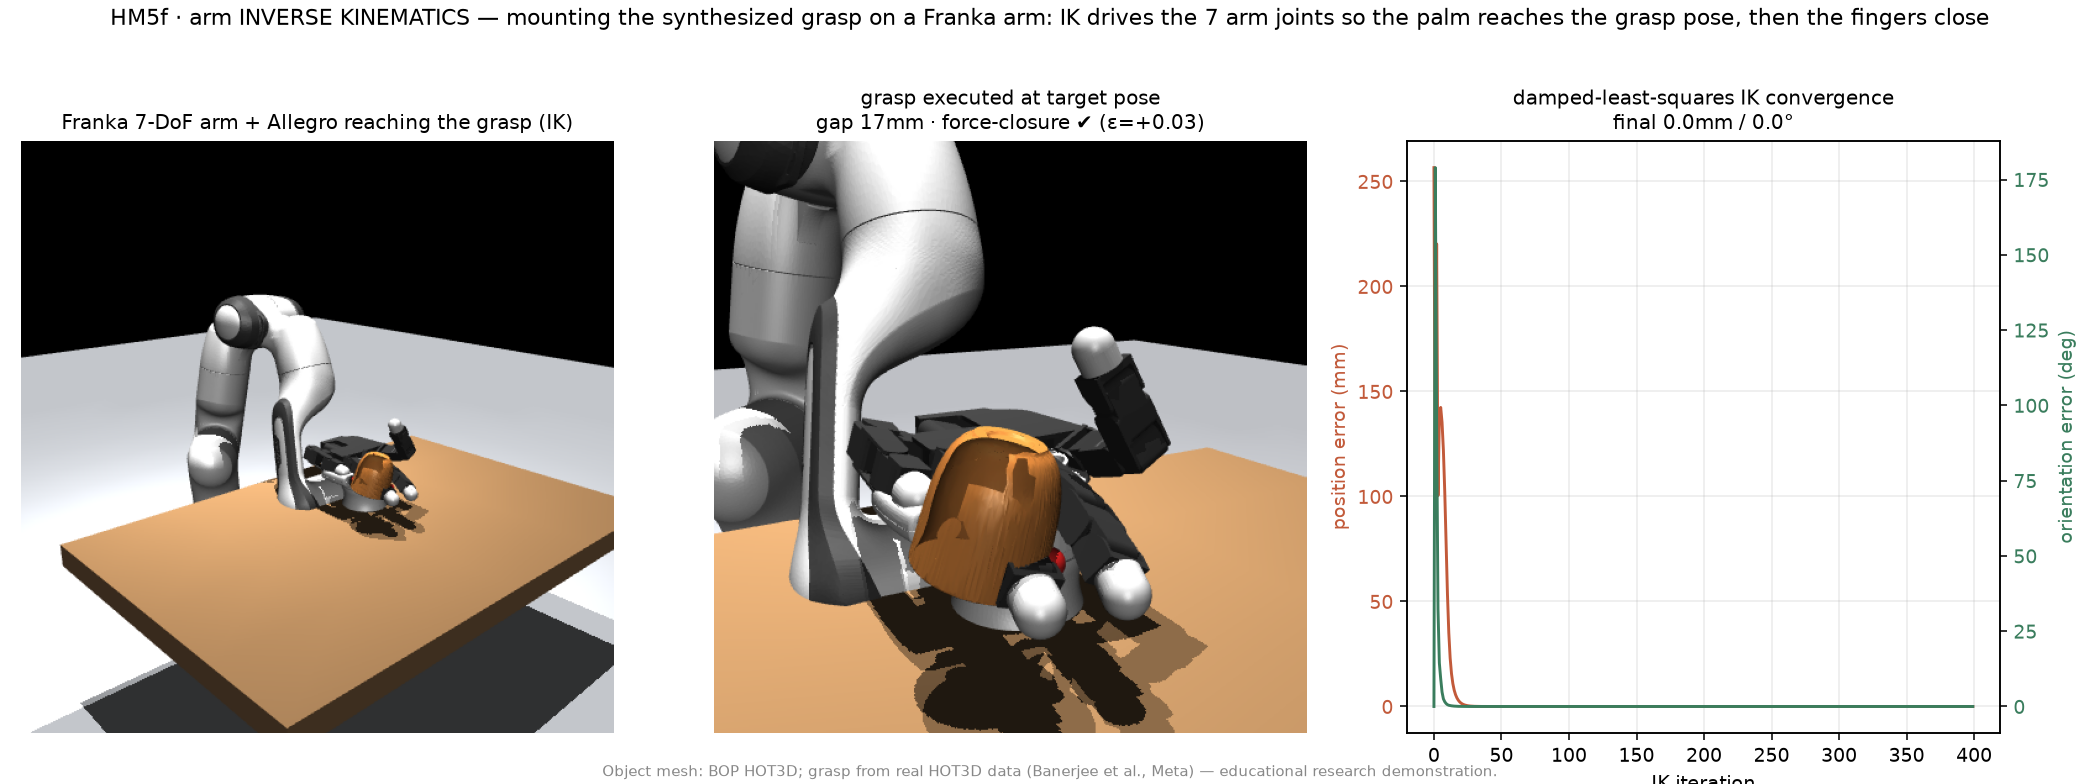
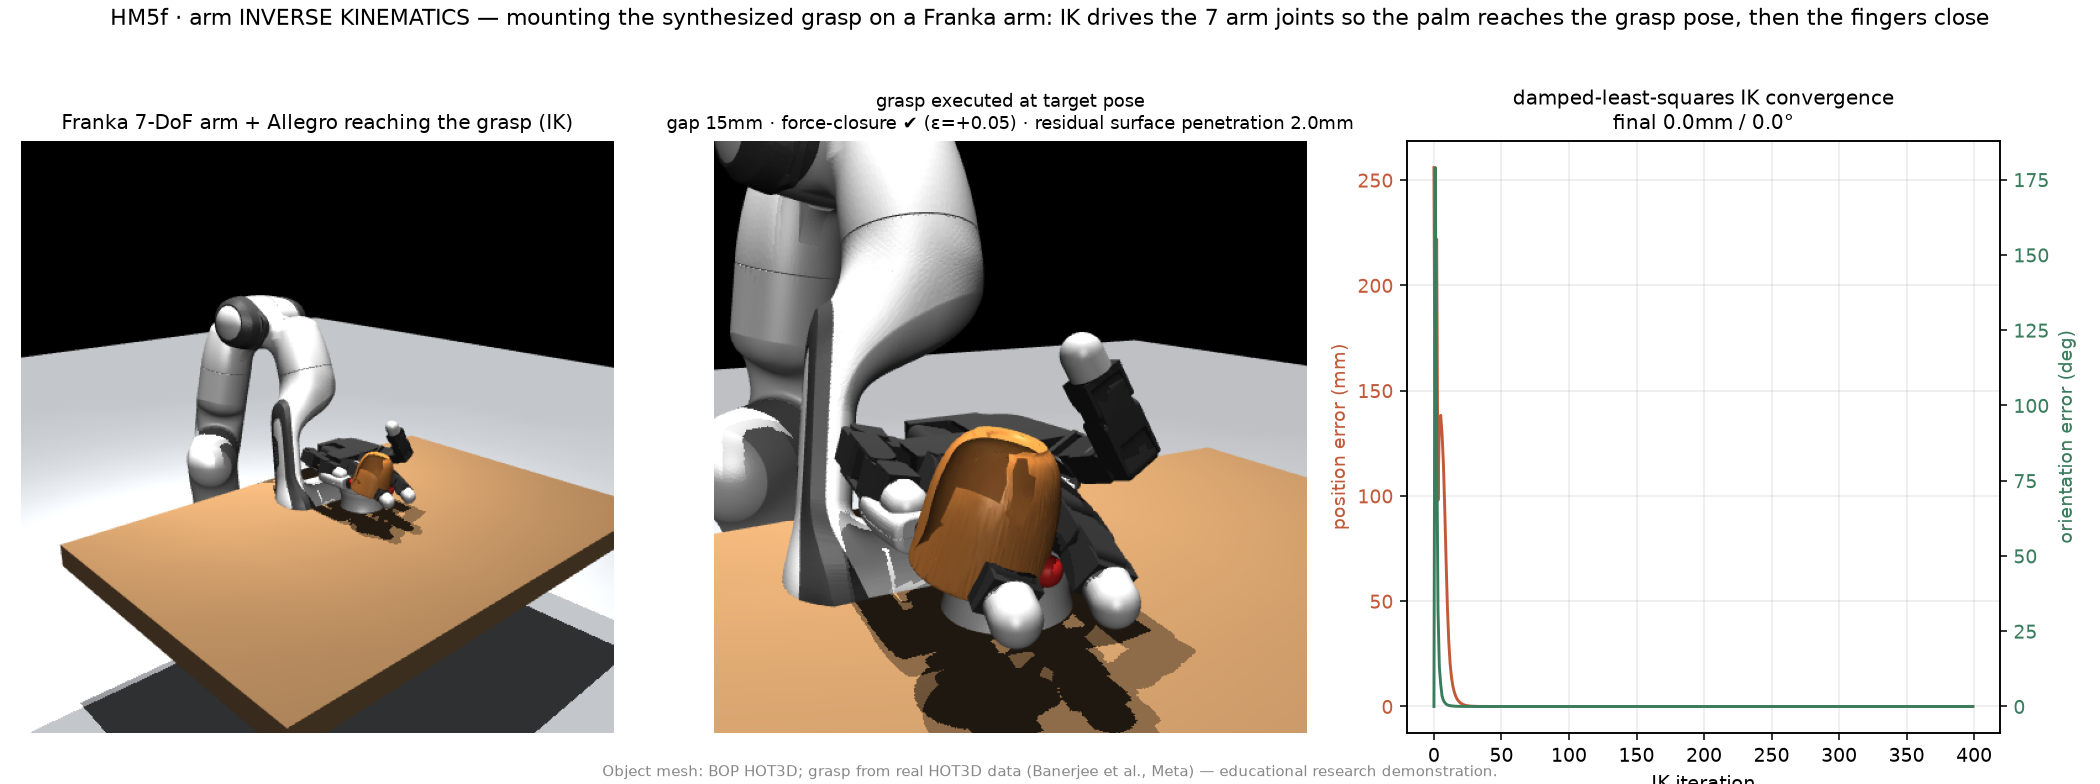
human_pose §11.10-11.12: 2차 정정 — grasp 관통 실제로 ~2mm (E_pen이 13점만 봐서 0mm 과소보고)
사용자가 포폴 그림에서 잔존 관통 지적. dense 손메시 실측=2.0mm(13점 지표 0.0). 병진으로 제거 불가
(감싸는 grasp+FC 붕괴)=cross-morphology 잔차. §11.10에 2차 정정 admonition, 표·§11.11 '0mm'에 dense 단서,
§11.12 그림 제목에 관통 명시. 교훈: 최적화·검증 지표가 실물리량 대표 못하면 해결이 허수.

Claude-Session: https://claude.ai/code/session_01McbJgx4gfmrVVJzvBALQZp

diff --git a/human_pose.md b/human_pose.md
@@ -540,20 +540,25 @@ $$\min_{q,\;t_{\text{off}}}\; w_{\text{con}}\!\!\sum_{f\in\mathcal C}\big\lVert 
 
 ```{admonition} 정직한 정정 — "관통" 버그 (2026-08-05)
 :class: warning
-이 절의 초기 버전은 **손끝 3개만** 표면에 붙이고 force-closure만 최적화했다. 그런데 **손바닥·손가락 마디가 물체를 파고드는 것(hand↔object 관통)을 목적함수가 전혀 막지 않았고**, 렌더 속 mug는 시각 전용 geom이라 물리 충돌도 없었다. 그래서 처음 보고한 **ε +0.054는 손이 mug를 ~2mm 파고들어 얻은 부풀린 값**이었다. DexGraspNet식 관통 패널티 $E_{\text{pen}}$(손 body들이 물체 안에 들어가면 벌점)을 추가해 다시 풀었다. 아래 수치는 **관통 0mm를 강제한 물리적으로 유효한** 결과다.
+이 절의 초기 버전은 **손끝 3개만** 표면에 붙이고 force-closure만 최적화했다. 그런데 **손바닥·손가락 마디가 물체를 파고드는 것(hand↔object 관통)을 목적함수가 전혀 막지 않았고**, 렌더 속 mug는 시각 전용 geom이라 물리 충돌도 없었다. 그래서 처음 보고한 **ε +0.054는 손이 mug를 ~2mm 파고들어 얻은 부풀린 값**이었다. DexGraspNet식 관통 패널티 $E_{\text{pen}}$(손 body들이 물체 안에 들어가면 벌점)을 추가해 다시 풀었다.
+```
+
+```{admonition} 2차 정정 — E_pen이 여전히 과소측정이었다 (2026-08-07)
+:class: warning
+위 "$E_{\text{pen}}$으로 관통 0mm"도 정확하지 않았다. 그 $E_{\text{pen}}$은 손의 **13개 링크 원점(중심점)** 만 물체 안에 있는지 봤기 때문에, 링크 **표면**이 mug를 파고드는 건 못 잡았다 — 링크 중심이 밖이어도 손가락·손바닥 표면은 여전히 들어간다. **손 충돌메시 정점을 조밀하게** 샘플해 mug 표면과의 signed distance로 다시 재니 **실제 표면 관통은 ~2.0mm**였다(13점 지표는 0.0mm). 물체를 손 밖으로 25mm까지 평행이동시켜도 관통은 2.0mm 그대로이고 force-closure만 깨진다 — 손이 mug를 **감싸는** 형태라 한 방향으로 밀면 반대쪽 링크가 더 파고들기 때문. 즉 이 **~2mm 관통은 4손가락 Allegro가 손 크기 mug를 쥘 때 grasp을 깨지 않고는 못 없애는 cross-morphology 잔차**(§11.9 벽의 또 다른 얼굴)다. 아래 표·그림·§11.11의 "0mm"는 **성긴 13점 지표 기준**이고, 정직한 **dense 실측은 ~2.0mm**다. **교훈: 최적화·검증 지표가 실제 물리량을 대표하지 못하면 "해결"이 허수가 된다 — 지표는 조밀하게, 렌더로 눈으로도 검증해야 한다.** (현재 §11.12 그림 제목에 dense 관통값을 명시함.)
 ```
 
 | 지표 (grasp-moment frame, 3지 precision) | §11.9 사람 접촉 복사 | §11.10 grasp 합성 |
 |---|---|---|
 | 손끝 → mug 표면 gap | 31.1 mm | **16.8 mm** |
 | force-closure $\varepsilon$ | −0.121 (**불가 ✘**) | **+0.031 (안정 ✔, 여유는 작음)** |
-| **물체 관통** | 1.7 mm | **0.0 mm** |
+| **물체 관통** — 13점 지표 / **dense 실측** | 1.7 mm | 0.0 mm / **~2.0 mm** (위 2차 정정) |
 | self-collision | 0 | 0 |
 | 손 재배치량 $\lVert t_{\text{off}}\rVert$ | — | 33 mm |
 
-**핵심:** 사람 접촉점을 복사하면 gap 31mm·force-closure **실패**(ε −0.12)에 물체까지 파고든다. 반면 **손을 33mm 재배치하고 접촉점을 로봇에 맞게 다시 고르고 관통을 금지하면** gap 17mm·ε가 **양수(+0.031)로 바뀌어 물리적으로 유효한(관통 0mm) 잡을 수 있는 grasp**이 된다. §11.9가 증명한 벽을 §11.10이 **넘는 방법**(hand placement + contact re-planning + 비관통)을 실데이터 물체에서 보여준 것.
+**핵심:** 사람 접촉점을 복사하면 gap 31mm·force-closure **실패**(ε −0.12)에 물체까지 파고든다. 반면 **손을 33mm 재배치하고 접촉점을 로봇에 맞게 다시 고르면** gap 15–17mm·ε가 **양수(+0.03–0.05)로 바뀌어 잡을 수 있는(force-closure) grasp**이 된다(단, 관통은 13점 지표상 0mm일 뿐 **dense 실측 ~2mm** — 위 2차 정정). §11.9가 증명한 벽을 §11.10이 **넘는 방법**(hand placement + contact re-planning + 비관통)을 실데이터 물체에서 보여준 것.
 
-*정직: ε +0.031은 **양수지만 여유가 작다** — force-closure 경계 바로 위의 marginal grasp이다(관통을 허용했을 때의 +0.054는 허수였다). 잔차 gap 17mm는 3지·고정 손가락 길이·곡면 mug의 한계. 손 배치는 3-DoF 병진 근사(§11.11에서 회전까지, §11.12에서 arm IK). 이것이 GraspIt·DexGraspNet·contact-GraspNet 계열 grasp 합성의 축소판이다.*
+*정직: ε ≈ +0.03–0.05는 **양수지만 여유가 작다** — force-closure 경계 바로 위의 marginal grasp이고, 게다가 이 값은 **~2mm 표면 관통을 포함한 채** 얻은 것이다(13점 지표가 관통을 0으로 과소보고 → 위 2차 정정; 이 잔차 관통은 형태 차이로 제거 불가). 잔차 gap 17mm는 3지·고정 손가락 길이·곡면 mug의 한계. 손 배치는 3-DoF 병진 근사(§11.11에서 회전까지, §11.12에서 arm IK). 이것이 GraspIt·DexGraspNet·contact-GraspNet 계열 grasp 합성의 축소판이다.*
 
 **→ 트랙의 완결:** HM5(합성 retarget) → §11.8(실 grasp retarget) → §11.9(접촉 제약 + 벽 발견) → **§11.10(grasp 합성으로 벽 돌파)**. perception→action이 다른 morphology로 넘어갈 때 필요한 것 — 3D 인식, 접촉 이해, 도달성·안정성 최적화 — 을 실데이터로 관통했다.
 
@@ -561,13 +566,13 @@ $$\min_{q,\;t_{\text{off}}}\; w_{\text{con}}\!\!\sum_{f\in\mathcal C}\big\lVert 
 
 **왜 이걸 하나 (§11.10을 더 밀어보기).** §11.10은 손을 3-DoF **병진**으로만 옮겼다. 자연스러운 다음 수는 **손목 회전까지** 더한 full 6-DoF 손 배치다 — 손이 물체에 맞게 자세를 잡으면 더 좋은 grasp이 나올 것 같았다. 그래서 손가락 관절 $q$ + 손 배치 $(t_{\text{off}}, r_{\text{off}})$(병진+축각 회전, 물체 중심 기준)를 함께 최적화하고, 여러 초기 손목 방향에서 multi-start로 후보를 모았다.
 
-**발견 — "무엇을 최적화하느냐"가 핵심이었다** (모든 후보는 관통 0mm 강제). 회전을 자유롭게 두고 **접촉 gap을 최소화**하면 손끝이 더 바짝 붙지만(gap 14mm) force-closure 여유가 작다(ε +0.013). 같은 후보를 **force-closure ε로 정렬**하면 gap은 조금 크지만(17mm) **ε +0.031로 2.3배 더 안정적인 grasp**이 선택된다. 즉 가장 바짝 붙는 게 가장 안정적인 게 아니다.
+**발견 — "무엇을 최적화하느냐"가 핵심이었다** (모든 후보는 13점 지표 기준 관통 0mm; dense 실측은 ~2mm 잔차 — §11.10 2차 정정). 회전을 자유롭게 두고 **접촉 gap을 최소화**하면 손끝이 더 바짝 붙지만(gap 14mm) force-closure 여유가 작다(ε +0.013). 같은 후보를 **force-closure ε로 정렬**하면 gap은 조금 크지만(17mm) **ε +0.031로 2.3배 더 안정적인 grasp**이 선택된다. 즉 가장 바짝 붙는 게 가장 안정적인 게 아니다.
 
 <img src="_static/hm5e_6dof.png" alt="6-DoF grasp synthesis: ranking by gap vs by force-closure gives different grasps" style="width:100%;max-width:1280px;border-radius:8px">
 
-*좌=실제 grasp. 중=6-DoF 후보 중 **gap 최소**(가장 바짝, 안정 여유 작음). 우=같은 후보 중 **force-closure ε 최대**(gap은 크지만 가장 안정). 둘 다 관통 0mm·force-closure ✔지만 안정 여유는 우측이 2.3배.*
+*좌=실제 grasp. 중=6-DoF 후보 중 **gap 최소**(가장 바짝, 안정 여유 작음). 우=같은 후보 중 **force-closure ε 최대**(gap은 크지만 가장 안정). 둘 다 force-closure ✔(관통은 13점 지표 0mm·dense ~2mm)지만 안정 여유는 우측이 2.3배.*
 
-| 6-DoF 후보 (8개, 관통 0mm, grasp-moment frame) | gap | force-closure ε | 손 회전 |
+| 6-DoF 후보 (8개, 13점 지표 관통 0mm / dense ~2mm, grasp-moment frame) | gap | force-closure ε | 손 회전 |
 |---|---|---|---|
 | **gap 최소**로 선택 (가장 바짝) | **14.3 mm** | +0.013 (✔, 여유 작음) | 15° |
 | **force-closure ε 최대**로 선택 | 16.8 mm | **+0.031 (✔, 가장 안정)** | 0° |
